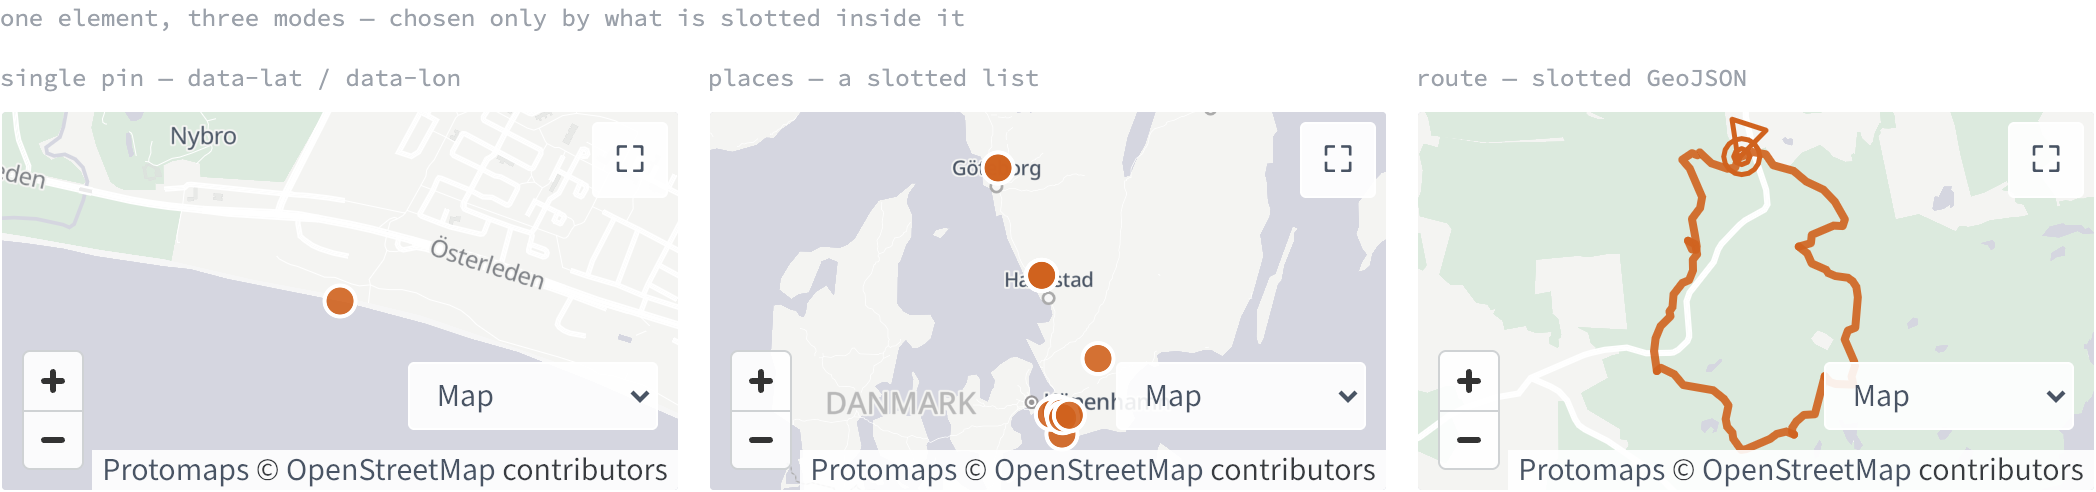
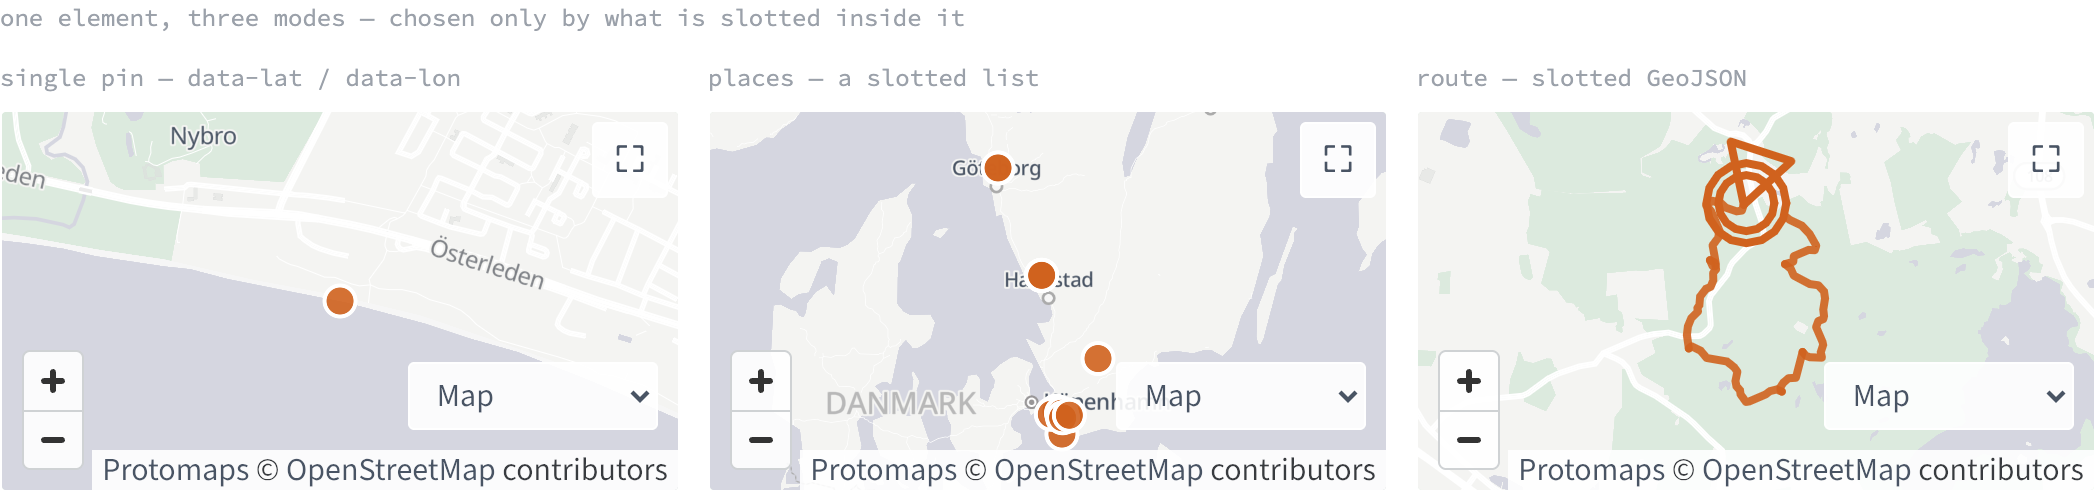
Preloader count takes the --nums-* slots; wiki route-symbols figure re-shot with the thick symbols

diff --git a/src/wiki/_sources/place-map.html b/src/wiki/_sources/place-map.html
@@ -37,7 +37,7 @@
 <div class="specimen" data-shot="place-map-route-symbols">
   <p class="label">route mode, zoomed in on the start and finish, 25 metres apart · start triangle, finish circles</p>
   <div class="one">
-    <place-map data-place="this route" data-zoom-to="55.560505,13.21236,16">
+    <place-map data-place="this route" data-zoom-to="55.560505,13.21236,15">
       <div class="place-map-live" data-place-map-box><p class="place-map-pending">Map of this route</p></div>
       <script type="application/json" data-route>{"type":"Feature","properties":{},"geometry":{"type":"LineString","coordinates":[[13.21217,55.56044],[13.21212,55.56035],[13.21189,55.55995],[13.21112,55.55989],[13.21028,55.56001],[13.20953,55.5602],[13.20886,55.56049],[13.20837,55.56081],[13.20817,55.56064],[13.20761,55.56077],[13.20717,55.56052],[13.20665,55.5604],[13.20671,55.56033],[13.20698,55.56007],[13.20739,55.5599],[13.20767,55.55956],[13.20776,55.55926],[13.20788,55.55918],[13.20803,55.55898],[13.2084,55.55869],[13.20854,55.55842],[13.20861,55.5583],[13.20855,55.55797],[13.20842,55.5577],[13.20801,55.55742],[13.20761,55.55707],[13.20766,55.55669],[13.20767,55.5564],[13.2079,55.55615],[13.20794,55.55578],[13.2079,55.55561],[13.20808,55.55554],[13.20804,55.55534],[13.2076,55.55537],[13.20749,55.55553],[13.20726,55.55569],[13.20728,55.5558],[13.20721,55.55585],[13.20758,55.5558],[13.20792,55.55566],[13.20809,55.55529],[13.20811,55.55509],[13.2077,55.5548],[13.20764,55.55444],[13.20772,55.55419],[13.2075,55.55388],[13.20733,55.55364],[13.20667,55.55348],[13.20623,55.55316],[13.20579,55.55284],[13.20571,55.55251],[13.20568,55.55212],[13.20537,55.55188],[13.20547,55.55162],[13.20496,55.55135],[13.20449,55.55106],[13.2044,55.55088],[13.20427,55.55065],[13.20401,55.55037],[13.20395,55.55],[13.20386,55.54966],[13.20391,55.54935],[13.20406,55.54909],[13.20414,55.5488],[13.20417,55.54853],[13.20412,55.54854],[13.20452,55.54872],[13.20518,55.54854],[13.20584,55.54836],[13.20627,55.54801],[13.20674,55.54775],[13.20731,55.54767],[13.2079,55.54769],[13.20851,55.54755],[13.20908,55.54753],[13.20971,55.54746],[13.21031,55.54728],[13.21078,55.54698],[13.21124,55.54661],[13.21121,55.54621],[13.21096,55.54585],[13.21098,55.54571],[13.2111,55.54541],[13.21131,55.54531],[13.21161,55.54508],[13.2117,55.54474],[13.21191,55.54452],[13.21203,55.54447],[13.21224,55.54425],[13.2125,55.54411],[13.21277,55.54412],[13.213,55.54416],[13.21336,55.54429],[13.21364,55.54442],[13.2143,55.54447],[13.21472,55.54459],[13.21535,55.54473],[13.21585,55.54486],[13.21602,55.54501],[13.21635,55.54506],[13.21696,55.54514],[13.21761,55.54507],[13.21773,55.54497],[13.21762,55.54503],[13.21753,55.54509],[13.21757,55.54536],[13.21797,55.54572],[13.21854,55.54591],[13.21873,55.54608],[13.2191,55.54615],[13.21979,55.54611],[13.21999,55.54638],[13.22009,55.54676],[13.2203,55.54704],[13.22031,55.54724],[13.2204,55.5474],[13.22048,55.54756],[13.22058,55.54782],[13.22066,55.54806],[13.22077,55.54825],[13.22106,55.54808],[13.2213,55.54793],[13.22185,55.54781],[13.22238,55.54774],[13.22279,55.54777],[13.22331,55.54778],[13.22361,55.54778],[13.22359,55.54795],[13.22343,55.54824],[13.22352,55.54853],[13.22378,55.54883],[13.2237,55.54908],[13.22354,55.54944],[13.22325,55.54976],[13.22288,55.55006],[13.22276,55.55032],[13.22283,55.55055],[13.22308,55.55081],[13.2238,55.55097],[13.22392,55.55122],[13.22383,55.55146],[13.22381,55.55176],[13.22389,55.55209],[13.22397,55.55235],[13.22406,55.55268],[13.224,55.55298],[13.22391,55.55327],[13.22375,55.55346],[13.22354,55.55358],[13.22307,55.55378],[13.22245,55.55381],[13.22183,55.55387],[13.2215,55.55395],[13.22113,55.55404],[13.2209,55.55422],[13.2206,55.55426],[13.22027,55.55434],[13.22006,55.55448],[13.21978,55.5545],[13.2195,55.55458],[13.21938,55.55481],[13.21904,55.55515],[13.21867,55.55531],[13.21837,55.55541],[13.2182,55.55552],[13.21882,55.55561],[13.2194,55.55572],[13.21941,55.55584],[13.2195,55.55618],[13.22021,55.5563],[13.22052,55.55645],[13.22066,55.55646],[13.22118,55.55658],[13.22165,55.5567],[13.22199,55.55662],[13.22256,55.55668],[13.2227,55.55681],[13.22277,55.55705],[13.2226,55.55729],[13.22235,55.55758],[13.22199,55.55784],[13.22179,55.55804],[13.22144,55.55827],[13.22124,55.55838],[13.22101,55.55843],[13.22066,55.55871],[13.22007,55.55892],[13.21938,55.55907],[13.21894,55.55918],[13.21849,55.55935],[13.21808,55.55955],[13.21768,55.55977],[13.21726,55.55979],[13.21642,55.55993],[13.21568,55.56009],[13.21522,55.56037],[13.21492,55.56071],[13.21437,55.5607],[13.21366,55.56083],[13.21255,55.56057]]}}</script>
     </place-map>

diff --git a/src/assets/css/local/place-map.css b/src/assets/css/local/place-map.css
@@ -90,7 +90,10 @@ place-map > :is(.place-map-live, .place-map-static) + :not(script) {
 .place-map-preloader span {
   font-family: var(--font-base);
   font-size: var(--size-step-min-2);
-  font-variant-numeric: lining-nums tabular-nums;
+  --nums-figure: lining-nums;
+  --nums-spacing: tabular-nums;
+
+  font-variant-numeric: var(--nums-figure,) var(--nums-spacing,) var(--nums-fraction,) var(--nums-zero,);
 }
 .place-map-preloader[data-done] {
   opacity: 0;

diff --git a/src/wiki/The place map.md b/src/wiki/The place map.md
@@ -72,7 +72,7 @@ The start and finish are the standard **orienteering course symbols** — a tria
 The start triangle's apex is pinned exactly on the first point and the body trails back along the reverse of the travel direction. Centring it on the start, as a printed course does, was tried and reverted: the opening GPS fixes wander around the start, so the line was cut at odd angles near the triangle and the shape looked misplaced. At the other end the line stops where the outer finish circle begins, cut in screen pixels at the fit zoom like the symbols themselves (`trimToFinish` in `place-map.js`). The route's fit padding is derived from the symbol sizes, since the triangle and circles reach past the track's ends and a fixed 20 px clipped the finish at the map's edge. The symbols are drawn as thick as the line (`LINE_WEIGHT`), and the inner finish circle sits at about 70% of the outer, the IOF's 5 mm inside 7 mm. ⚠ Keep the gap between `FINISH_OUTER` and `FINISH_INNER` wider than `LINE_WEIGHT`: thick rings drawn close together merge into one blob at the fit zoom, which is why the symbols grew when they took the line's weight. The heading is measured to the first track point **at least ~25 m out**, not the next GPS fix — the opening fixes cluster on the spot and a two-point bearing there is pure noise, so the triangle would point a random way. The shapes are hollow and share the line's color, the site's accent orange. Orienteering overprint is purple, and a purple was tried — but the line has to read over several different tile sets, and it vanished on some of them; the accent orange reads on all of them. There's deliberately **no halo**. None are interactive, since the map isn't the screen-reader path here.
 
 <figure class="popout" data-wiki-mockup>
-  <img eleventy:formats="webp,png" src="/assets/images/wiki/place-map-route-symbols.png" alt="A pale green map of park paths with an orange route line running through it. Where the line begins, a hollow orange triangle with its apex on the track and its body trailing back; a few metres away, two hollow concentric orange circles marking the finish." width="1400" height="846">
+  <img eleventy:formats="webp,png" src="/assets/images/wiki/place-map-route-symbols.png" alt="A pale green map of park paths with an orange route line running through it. Where the line begins, a hollow orange triangle drawn as thick as the line, its apex on the track and its body trailing back; a few metres away, two hollow concentric orange circles of the same weight marking the finish, where the line stops at the outer circle." width="1400" height="846">
   <figcaption>The two orienteering symbols, zoomed in — the start and finish are about 25 metres apart on this course. Both are geographic shapes, so zooming grew them along with the line rather than leaving them at a fixed screen size.</figcaption>
 </figure>
 

diff --git a/src/wiki/_log.md b/src/wiki/_log.md
@@ -5,6 +5,10 @@ date: 2026-07-31
 
 Append-only. One entry per ingest / query-filed / lint, newest first. Entry format: `## [YYYY-MM-DD] ingest | Title` so `grep "^## \[" _log.md | head -5` lists the latest five.
 
+## [2026-10-05] enrich | The place map: route-symbols figure re-shot
+
+The `place-map-route-symbols` figure re-shot with the thick symbols and the line stopping at the finish, and its alt rewritten. The mockup's `data-zoom-to` dropped from 16 to 15: the symbols are sized at the fit zoom, which fell when the fit padding grew, so at 16 the finish circles overflowed the frame. The modes figure was re-shot in the same run.
+
 ## [2026-10-04] enrich | The place map: preloader and course symbols
 
 [[The place map]] rewritten where the session made it wrong: the pulsing `--map-water` box is gone, replaced by a forest-green box with the logo filling in ocean blue as a Flash-style counting preloader (timed from the first drawn frame, crossfading into the map); the line is cut at the outer finish circle (a centred start triangle was tried the same day and reverted: the GPS fixes wander around the start, so it looked misplaced), the fit padding now follows the symbol sizes so the finish isn't clipped, and the symbols take the line's weight with IOF finish proportions. ⚠ The `place-map-route-symbols` figure still shows the old thin, smaller symbols: re-shoot with `npm run mockups -- place-map` and update the alt. Later the same day: the attribution box on route maps was twice its height because prose-rhythm's `details > summary + *` margin reached MapLibre's `<details>`, now noted beside the script `display` trap. Source written from the session.
